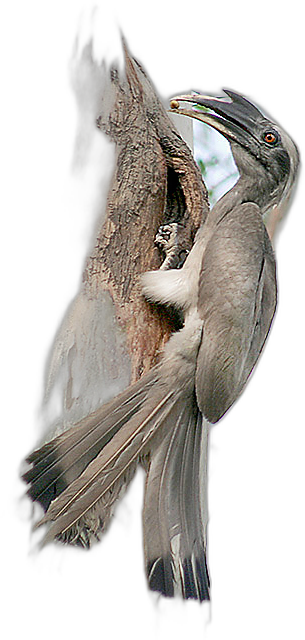
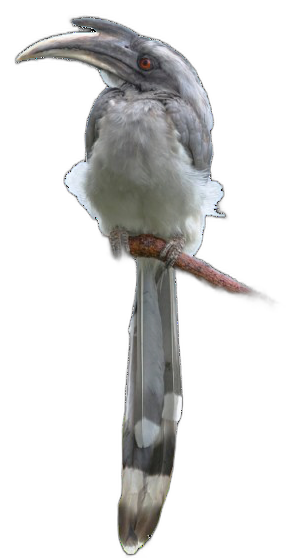
Update bird cutouts via species-sync tool

diff --git a/avian/frontend/apt.js b/avian/frontend/apt.js
@@ -2,7 +2,7 @@
   var PLACEHOLDER = [{ "sci": "Calypte anna", "com": "Anna's Hummingbird", "featured": true }, { "sci": "Passer domesticus", "com": "House Sparrow" }, { "sci": "Haemorhous mexicanus", "com": "House Finch" }, { "sci": "Turdus migratorius", "com": "American Robin" }, { "sci": "Zenaida macroura", "com": "Mourning Dove" }, { "sci": "Spinus psaltria", "com": "Lesser Goldfinch" }, { "sci": "Zonotrichia leucophrys", "com": "White-crowned Sparrow" }, { "sci": "Aphelocoma californica", "com": "California Scrub-Jay" }, { "sci": "Mimus polyglottos", "com": "Northern Mockingbird" }, { "sci": "Sayornis nigricans", "com": "Black Phoebe" }, { "sci": "Larus occidentalis", "com": "Western Gull" }, { "sci": "Corvus brachyrhynchos", "com": "American Crow" }];
   // Bumped whenever the offline sketch build changes, so the browser
   // doesn't keep a stale cache after we regenerate the sketches.
-  var SKETCH_VERSION = 'r32'; // r22: merged upstream r12 (84 eastern NA birds)
+  var SKETCH_VERSION = 'r33'; // r22: merged upstream r12 (84 eastern NA birds)
   // with our 554 photo-cutout-only masks for Karnataka species that have no
   // bundled illustration. Tables now live in dims.json / masks.json.
   // Cache-bust for /api/img - bump whenever a bird gets re-rendered via
@@ -11,7 +11,7 @@
   // equivalent to a global cache purge for /api/img. (caches.default
   // .delete() in the worker only affects ONE colo at a time, so a
   // versioned URL is the only reliable way to invalidate everywhere.)
-  var IMG_VERSION = 'r32'; // r22: merged upstream r12 (84 eastern NA birds)
+  var IMG_VERSION = 'r33'; // r22: merged upstream r12 (84 eastern NA birds)
   // with our 554 photo-cutout-only species, so drop every cached copy.
 
   // ---- Sliding pill helper ----
